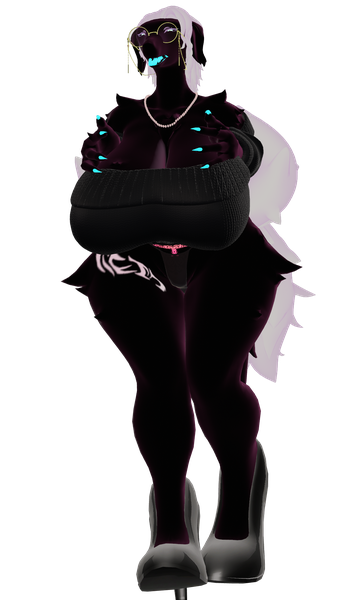
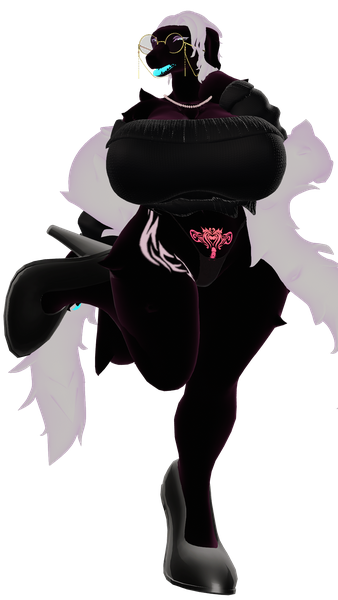
feat: VIPモーダルのXシェア更新・OGP画像追加・キャスト画像差し替え
- VIPモーダルのツイートテキストを「隠しページを発見、「VIP」を解放しました。」に更新
- vip.html を新規作成（OGP専用・キャストタブへリダイレクト）
- images/ogp-vip.png を新規追加（VIP用OGPサムネイル 1200x630px）
- .gitignore を新規追加（tools/除外）
- MamLuua: 一覧・詳細画像を正しい順序に差し替え（解像度修正）
- エルビィ: 詳細画像を差し替え

diff --git a/vip.html b/vip.html
@@ -1,0 +1,23 @@
+<!DOCTYPE html>
+<html lang="ja">
+<head>
+    <meta charset="UTF-8">
+    <meta name="viewport" content="width=device-width, initial-scale=1.0">
+    <title>VIP解放 | なでなで茶屋</title>
+
+    <!-- OGP -->
+    <meta property="og:title" content="隠しページを発見、「VIP」を解放しました。">
+    <meta property="og:description" content="こんなところを見るなんて！あなたはVIP会員です！ #メスケモ推進委員会">
+    <meta property="og:image" content="https://ys-0311san.github.io/iinnkai/images/ogp-vip.png">
+    <meta property="og:url" content="https://ys-0311san.github.io/iinnkai/vip.html">
+    <meta property="og:type" content="website">
+    <meta name="twitter:card" content="summary_large_image">
+    <meta name="twitter:image" content="https://ys-0311san.github.io/iinnkai/images/ogp-vip.png">
+</head>
+<body>
+    <script>
+        // VIPページにアクセスされたらトップページのキャストタブへリダイレクト
+        window.location.replace('index.html#cast');
+    </script>
+</body>
+</html>

diff --git a/index.html b/index.html
@@ -294,7 +294,7 @@
             </div>
 
             <a class="btn-share-x vip-discover-share"
-               href="https://twitter.com/intent/tweet?text=%E3%81%93%E3%82%93%E3%81%AA%E3%81%A8%E3%81%93%E3%82%8D%E3%82%92%E8%A6%8B%E3%82%8B%E3%81%AA%E3%82%93%E3%81%A6%EF%BC%81%E3%81%82%E3%81%AA%E3%81%9F%E3%81%AFVIP%E4%BC%9A%E5%93%A1%E3%81%A7%E3%81%99%EF%BC%81%20%23%E3%81%AA%E3%81%A7%E3%81%AA%E3%81%A7%E8%8C%B6%E5%B1%8B%20%23%E3%83%A1%E3%82%B9%E3%82%B1%E3%83%A2%E6%8E%A8%E9%80%B2%E5%A7%94%E5%93%A1%E4%BC%9A&url=https%3A%2F%2Fys-0311san.github.io%2Fiinnkai%2F"
+               href="https://twitter.com/intent/tweet?text=%E9%9A%A0%E3%81%97%E3%83%9A%E3%83%BC%E3%82%B8%E3%82%92%E7%99%BA%E8%A6%8B%E3%80%81%E3%80%8CVIP%E3%80%8D%E3%82%92%E8%A7%A3%E6%94%BE%E3%81%97%E3%81%BE%E3%81%97%E3%81%9F%E3%80%82&hashtags=%E3%83%A1%E3%82%B9%E3%82%B1%E3%83%A2%E6%8E%A8%E9%80%B2%E5%A7%94%E5%93%A1%E4%BC%9A&url=https%3A%2F%2Fys-0311san.github.io%2Fiinnkai%2Fvip.html"
                target="_blank"
                rel="noopener noreferrer"
                >
